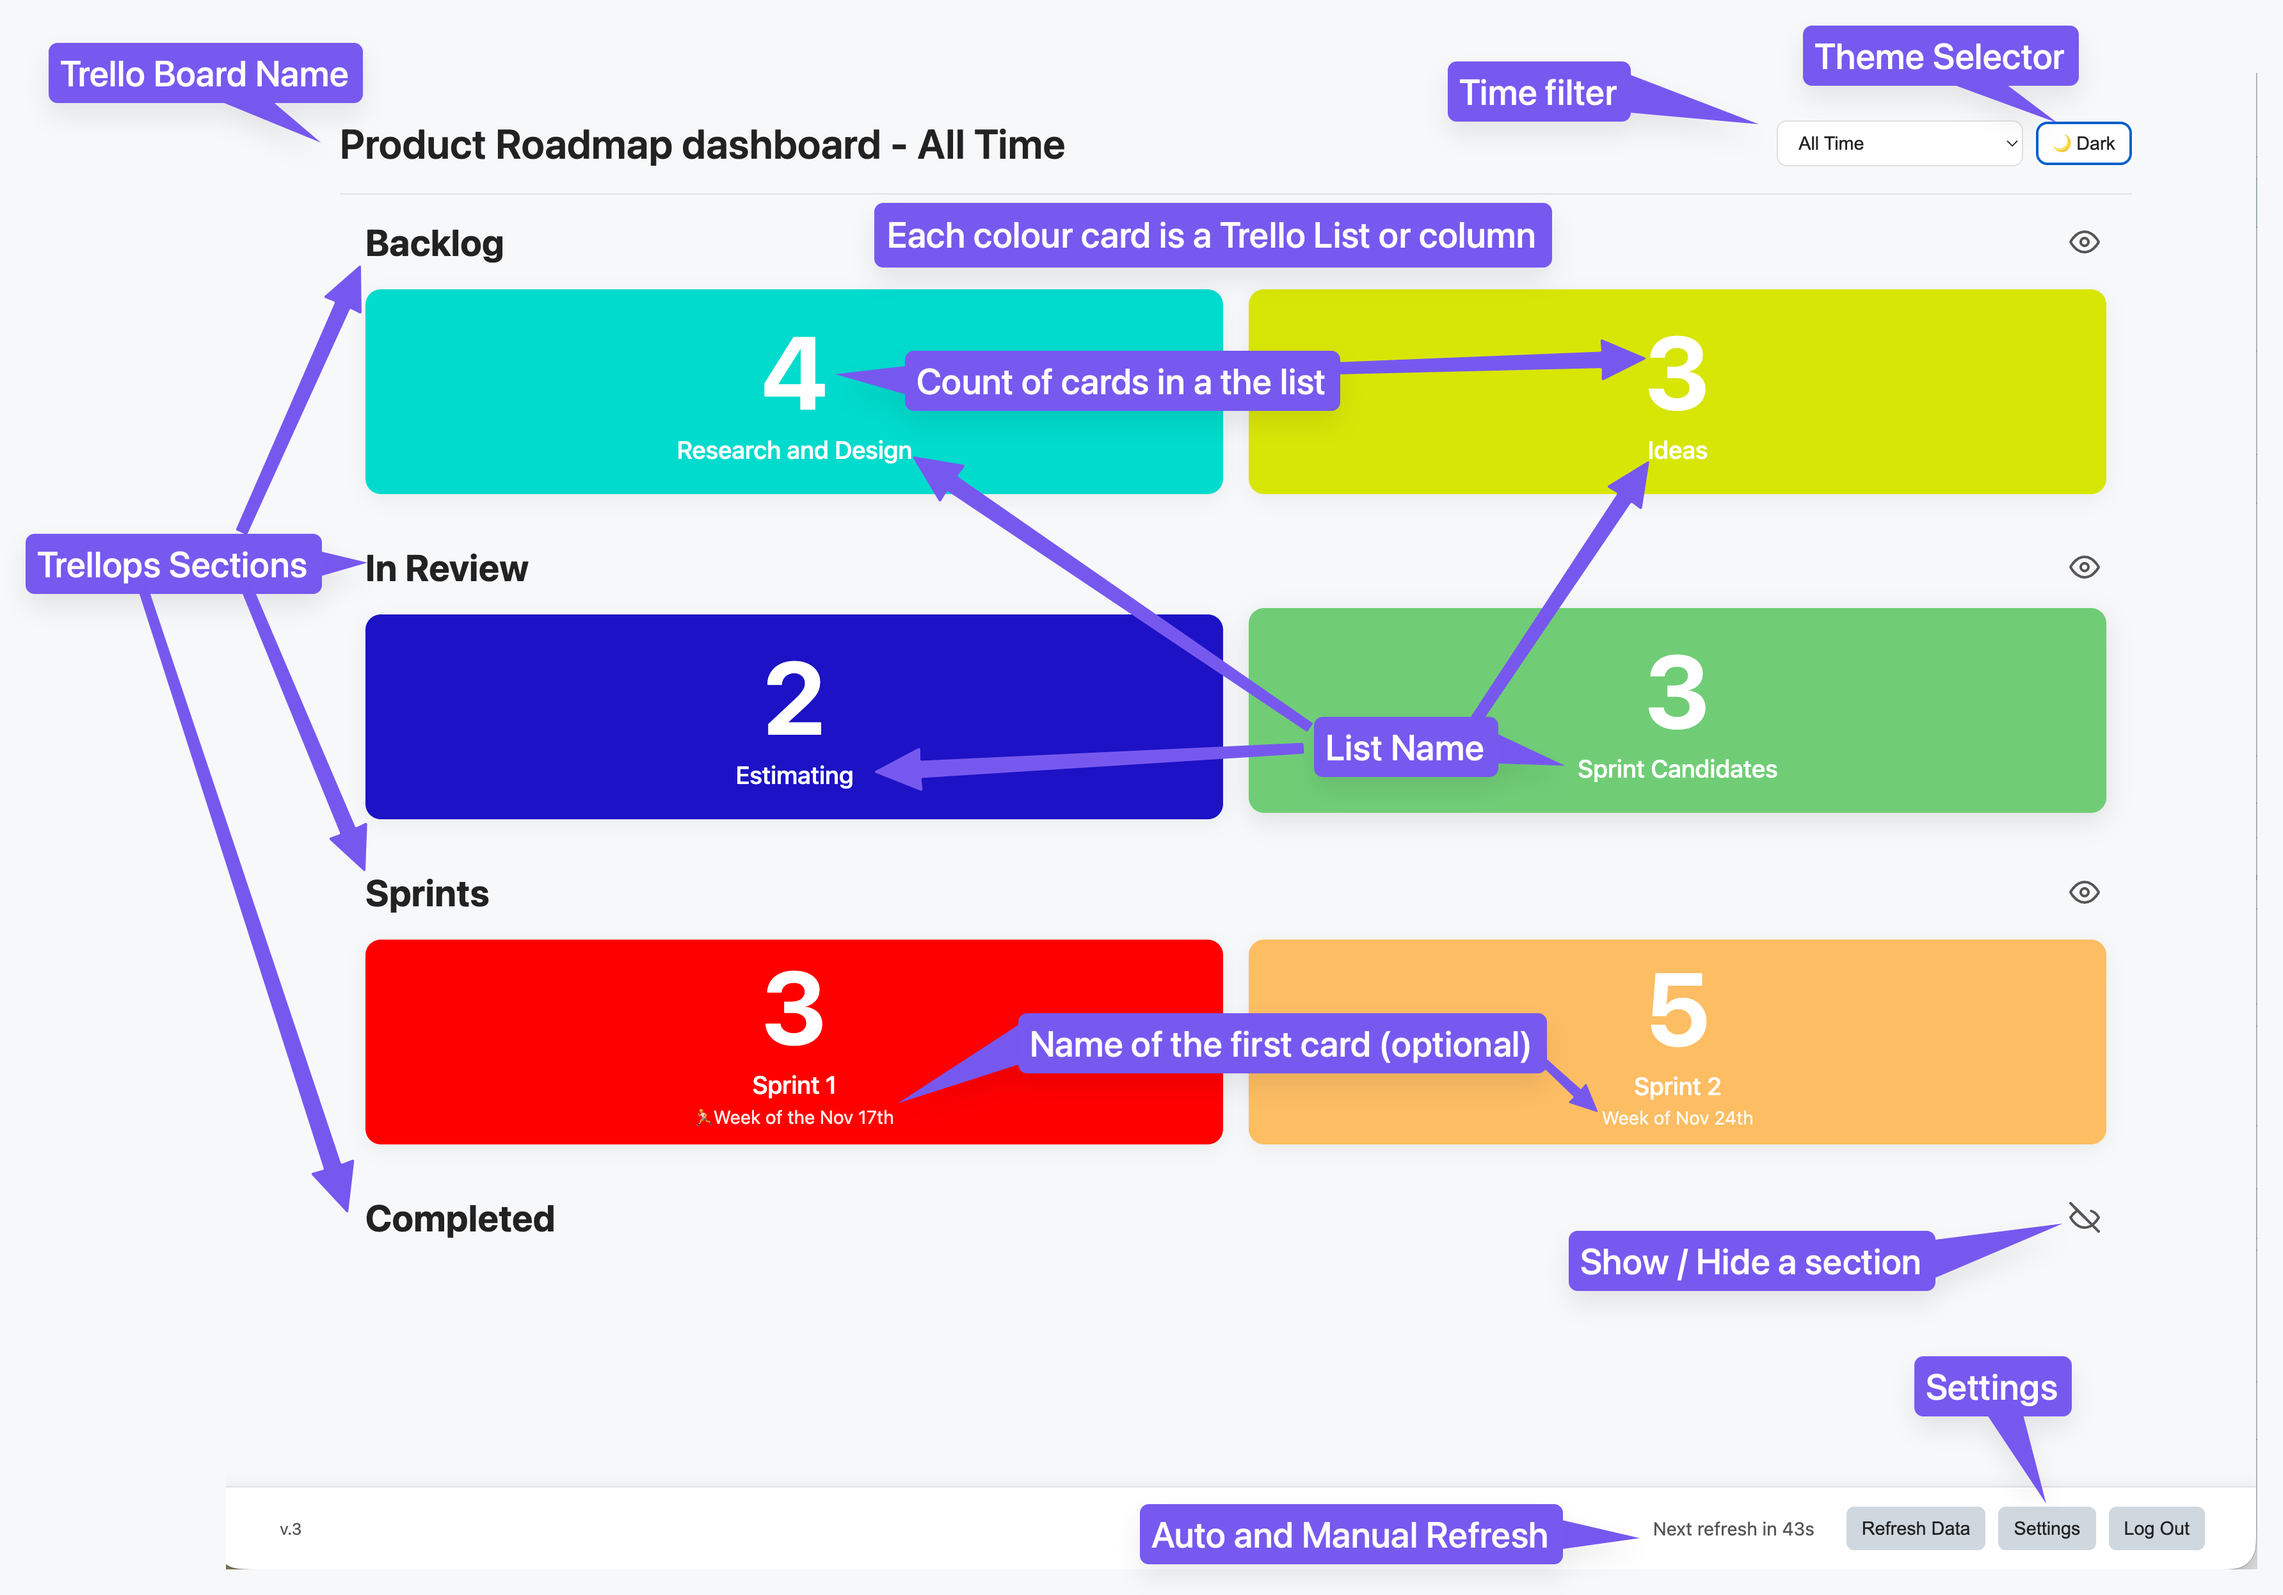
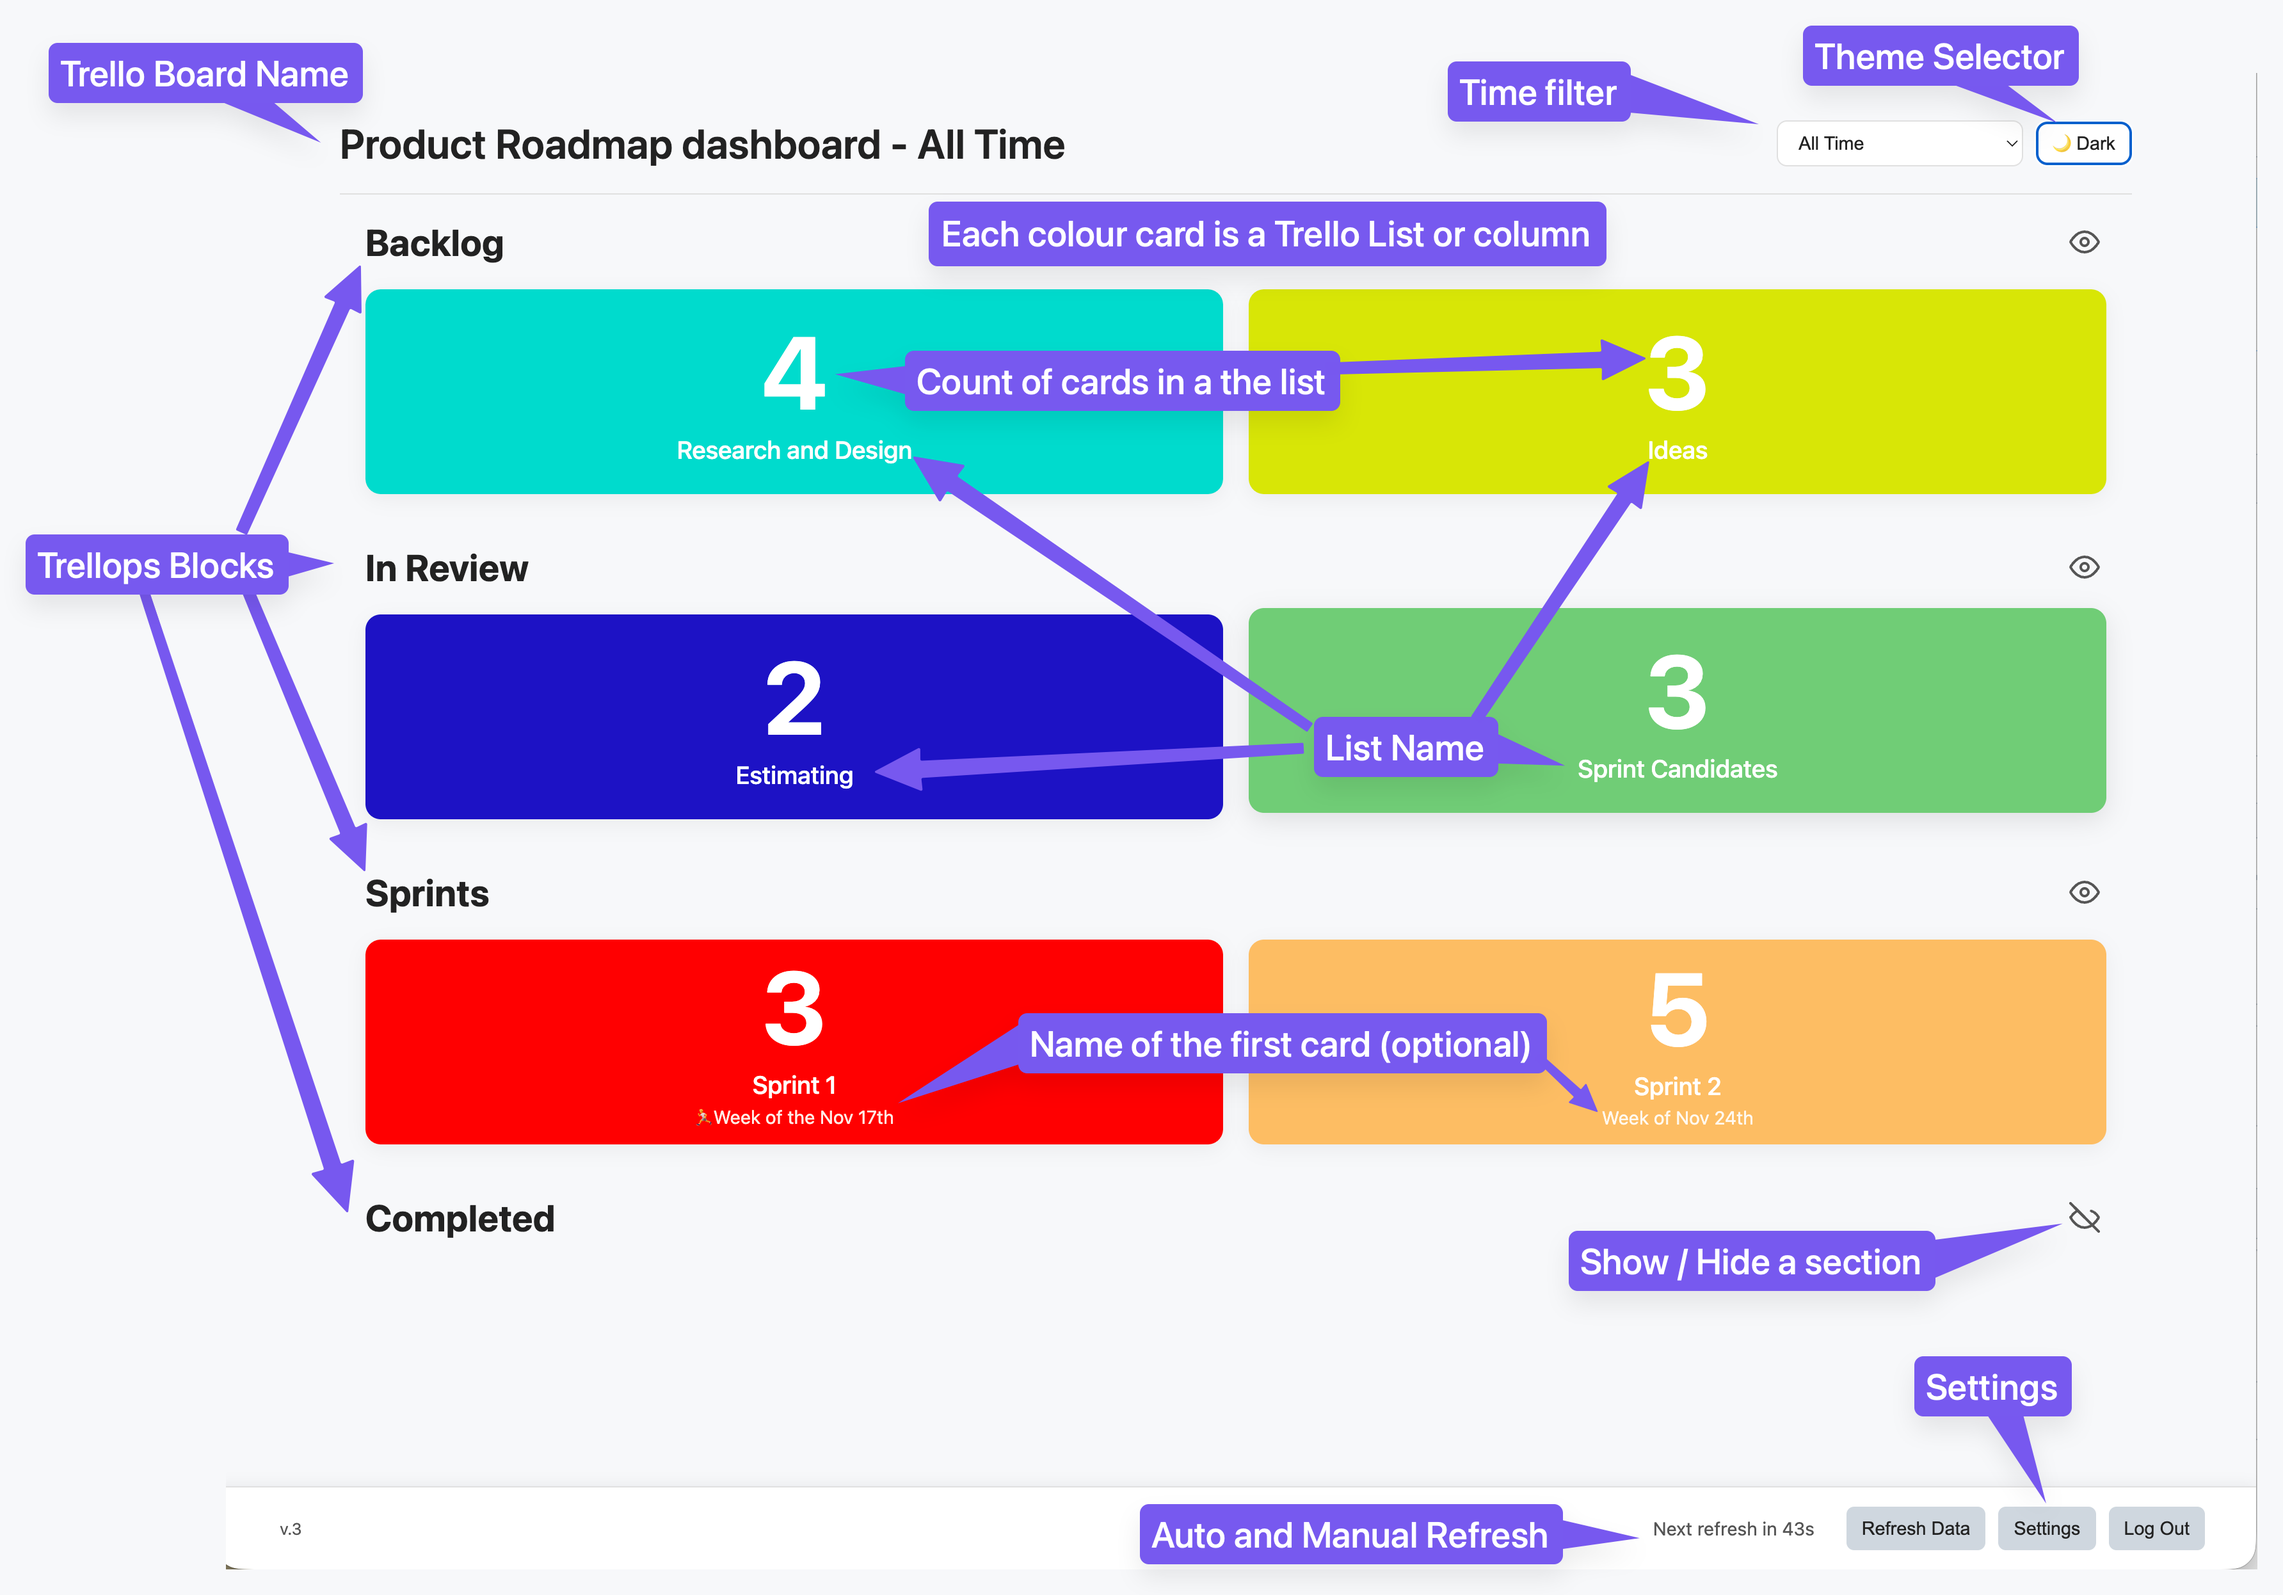
admin_refreshed

Changed region(s): [[0.3734, 0.1236, 0.7157, 0.1854], [0.0622, 0.3399, 0.1556, 0.3708]]

diff --git a/index.html b/index.html
@@ -299,7 +299,7 @@
             display: flex;
             align-items: center;
             margin-top: 10px;
-            padding: 12px;
+            padding: 8x;
             background: var(--bg-primary); 
             border: 1px solid var(--border-color);
             border-radius: 8px;
@@ -346,8 +346,11 @@
             flex-basis: 100%;
         }
         @media (min-width: 768px) {
-            .layout-column {
-                flex-basis: calc(50% - 10px);
+            .layout-column:first-child {
+                flex-basis: 40%;
+            }
+            .layout-column:last-child {
+                flex-basis: calc(60% - 20px);
             }
         }
         .layout-block-box {
@@ -1697,9 +1700,9 @@
                         <button className="logout-button" onClick={onLogout} style={{margin: 0}}>Log Out</button>
                     </div>
                     <h2>
-                        Dashboard Setup
-                        <a href="help.html" target="_blank" rel="noopener noreferrer" title="Help" style={{marginLeft: '10px', fontSize: '0.9em', textDecoration: 'none', display: 'inline-flex', alignItems: 'center'}}>
-                            <svg width="18" height="18" viewBox="0 0 24 24" xmlns="http://www.w3.org/2000/svg" style={{flexShrink: 0}}>
+                        Trellops Dashboard Setup
+                        <a href="help.html" target="_blank" rel="noopener noreferrer" title="Help" style={{marginLeft: '10px', fontSize: '3em', textDecoration: 'none', display: 'inline-flex', alignItems: 'center'}}>
+                            <svg width="25" height="25" viewBox="0 0 24 24" xmlns="http://www.w3.org/2000/svg" style={{flexShrink: 0}}>
                                 <circle cx="12" cy="12" r="10" fill="var(--primary-color)" />
                                 <path d="M11 16h2v-2h-2v2zm1-12c-2.21 0-4 1.79-4 4h2a2 2 0 114 0c0 1.5-2 2.1-2 4" fill="var(--text-color)" />
                             </svg>
@@ -1708,12 +1711,12 @@
                     {error && <div className="error">{error}</div>}
 
                     <div className="admin-section">
-                        <h3>1. Choose your Trello board</h3>
+                        <h3>1. Choose your Trello Board</h3>
                         <p style={{ marginTop: '-10px', fontSize: '0.9em', color: 'var(--text-secondary)' }}>
                             Boards are pulled directly from your Trello account, across all workspaces.
                         </p>
                         <div className="settings-row">
-                            <label htmlFor="board-select">Trello board:</label>
+                            <label htmlFor="board-select">Your Trello board:</label>
                             <select id="board-select" value={selectedBoardId} onChange={handleBoardChange}>
                                 <option value="">-- Select a Board --</option>
                                 {boards.map(board => (
@@ -1725,7 +1728,7 @@
 
                     {selectedBoard && (
                         <div className="admin-section">
-                            <h3>2. Manage your dashboard blocks</h3>
+                            <h3>2. Manage your Trellops Blocks</h3>
                             <p style={{ marginTop: '-10px', fontSize: '0.9em', color: 'var(--text-secondary)' }}>
                                 A block is a group of tiles representing each Trello list (or column). You will be able to assign one or multiple tiles to each block. Blocks can be shown or hidden on demad on the dashboard.
                             </p>
@@ -1790,14 +1793,14 @@
 
                     {selectedBoard && (
                         <div className="admin-section">
-                            <h3>3. Assign tiles to your blocks</h3>
+                            <h3>3. Assign Tiles to your Blocks</h3>
                             <p style={{ marginTop: '-10px', fontSize: '0.9em', color: 'var(--text-secondary)' }}>
-                                Tiles show the total count of cards in each Trello list, automatically updating as the cards are updated. Choose the lists from the left unassigned pool, you want to create as a tile in the respective block on the right. Then customise each tile position and colour.
+                                Tiles show the total count of cards in each Trello list, automatically updating as the cards are created or moved. Choose from the Unassigned pool on the left,  the lists you want to create as a tile in the respective block on the right. Then customise each tile position and colour.
                             </p>
                             <div className="layout-config-container">
                                 <div className="layout-column">
                                     <div className="layout-block-box">
-                                        <h4 style={{marginBottom: '10px', color: '#6b778c'}}>Unassigned Lists ({listPool.length})</h4>
+                                        <h4 style={{marginBottom: '10px', color: '#6b778c'}}>Pool of Unassigned Trello Lists ({listPool.length})</h4>
                                         <div className="list-pool" style={{minHeight: '100px', display: 'flex', flexDirection: 'column', gap: '10px'}}>
                                             {listPool.map(list => (
                                                 <div key={list.id} className="layout-list-item" style={{justifyContent: 'flex-start', flexWrap: 'wrap', gap: '10px', flexBasis: 'auto', flexGrow: 0}}>
@@ -1892,7 +1895,7 @@
                                                         checked={block.ignoreFirstCard}
                                                         onChange={e => handleToggleIgnoreCard(block.id, e.target.checked)}
                                                     />
-                                                    Do not include the first card in the total
+                                                    Do not count the first card in the total
                                                 </label>
                                                 {block.ignoreFirstCard && (
                                                     <label className="sub-option">
@@ -1901,7 +1904,7 @@
                                                             checked={block.displayFirstCardDescription}
                                                             onChange={e => handleToggleDisplayDescription(block.id, e.target.checked)}
                                                         />
-                                                        Display the first card as a description
+                                                        Display the first card as tile description
                                                     </label>
                                                 )}
                                             </div>
@@ -1916,7 +1919,7 @@
                         <div className="admin-section">
                             <h3>4. Other Dashboard settings for "{selectedBoard.name}"</h3>
                             <p style={{ marginTop: '-10px', fontSize: '0.9em', color: 'var(--text-secondary)' }}>
-                                These settings are saved separately for each board.
+                                These settings are saved separately for each board. Auto-refresh must be at least 30 seconds. The digital clock appears in the top-left corner for the screen and follows the local computer time format.
                             </p>
                             <div className="three-column">
                                 <div className="settings-row">
@@ -1939,7 +1942,6 @@
                                 </div>
                                 
                                 <div className="settings-row">
-                                    <label htmlFor="show-clock-check">Show Clock</label>
                                     <label className="switch">
                                         <input 
                                             type="checkbox" 
@@ -1949,6 +1951,7 @@
                                         />
                                         <span className="slider round"></span>
                                     </label>
+                                    <label htmlFor="show-clock-check">Show Digital Clock</label>
                                 </div>
                                 
                                 <div className="settings-row">
@@ -2229,11 +2232,11 @@
                  return (
                     <div className="container">
                         <div className="header">
-                            <h1>📊 Trello Dashboard</h1>
+                            <h1>Trellops Dashboard</h1>
                             <button className="logout-button" onClick={onLogout}>Log Out</button>
                         </div>
                         <p style={{textAlign: 'center', marginTop: '50px'}}>
-                            No board or lists configured. Please go to settings to set up your dashboard.
+                            No board or lists configured. Please go to settings to set up your first dashboard.
                         </p>
                         <div style={{textAlign: 'center', marginTop: '20px'}}>
                             <button className="settings-button" onClick={onShowSettings}>Go to Settings</button>
